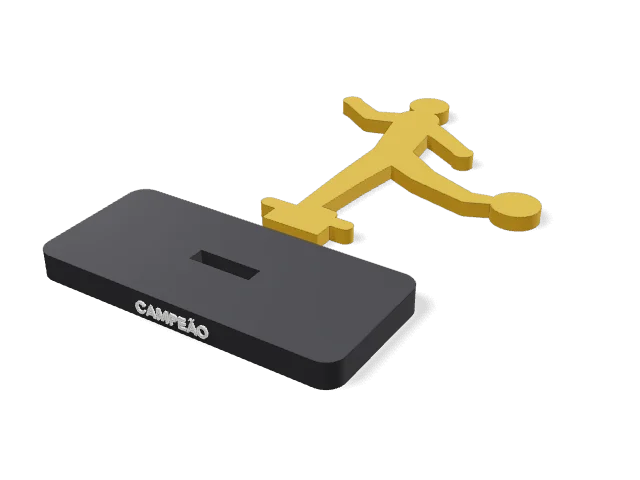
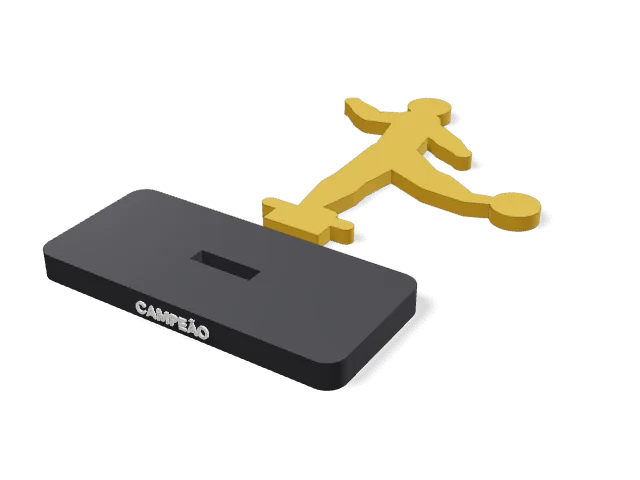
feat: silhuetas com corpo de pictograma e prévia Mesa/Montada no troféu atleta e escultura (#223)

diff --git a/src/geometry/sports.ts b/src/geometry/sports.ts
@@ -21,21 +21,40 @@ type Person = {
   arms: [V, V][]; // cotovelo, mão
   legs: [V, V, V][]; // joelho, tornozelo, ponta do pé
   hand?: number; // raio da mão (luva maior no boxe)
+  front?: number; // meia largura dos ombros de frente (0 = de perfil)
 };
 
-const HEAD_R = 7.4;
+const HEAD_R = 8.2;
 
-/** Corpo humano a partir das juntas: tronco, pescoço, braços e pernas afunilados, cabeça e sapatos. */
+const lerp = (a: V, b: V, t: number): V => [a[0] + (b[0] - a[0]) * t, a[1] + (b[1] - a[1]) * t];
+/** Cadeia de círculos: uma cápsula afunilada entre cada par (dá o volume de músculo ao braço e à perna). */
+const chain = (...c: Dot[]): Limb[] => c.slice(1).map((d, i) => [c[i][0], c[i][1], c[i][2], d[0], d[1], d[2]]);
+
+/** Corpo humano estilo pictograma: tronco com ombros e quadris, braços e pernas com músculo, cabeça e sapatos. */
 function person(p: Person): Pick<SportShape, "limbs" | "dots"> {
-  const limbs: Limb[] = [[p.sh[0], p.sh[1], 8, p.hip[0], p.hip[1], 6.6], [p.head[0], p.head[1], 3.2, p.sh[0], p.sh[1], 4]];
+  const dx = p.hip[0] - p.sh[0];
+  const dy = p.hip[1] - p.sh[1];
+  const len = Math.hypot(dx, dy) || 1;
+  const n: V = [-dy / len, dx / len]; // perpendicular ao tronco
+  const sw = p.front ?? 0;
+  const shoulder = (i: number): V => [p.sh[0] + n[0] * sw * (i === 0 ? 1 : -1), p.sh[1] + n[1] * sw * (i === 0 ? 1 : -1)];
+  const hipAt = (i: number): V => [p.hip[0] + n[0] * sw * 0.55 * (i === 0 ? 1 : -1), p.hip[1] + n[1] * sw * 0.55 * (i === 0 ? 1 : -1)];
+  const limbs: Limb[] = [
+    ...chain([p.sh[0] + n[0] * sw, p.sh[1] + n[1] * sw, 6.4], [p.hip[0] + n[0] * sw * 0.55, p.hip[1] + n[1] * sw * 0.55, 6.8]),
+    ...chain([p.sh[0] - n[0] * sw, p.sh[1] - n[1] * sw, 6.4], [p.hip[0] - n[0] * sw * 0.55, p.hip[1] - n[1] * sw * 0.55, 6.8]),
+    ...chain([p.sh[0], p.sh[1], 8.4], [p.hip[0], p.hip[1], 7.2]),
+    ...chain([p.head[0], p.head[1], 3.8], [p.sh[0], p.sh[1], 5.4]),
+  ];
   const dots: Dot[] = [[p.head[0], p.head[1], HEAD_R]];
-  for (const [el, ha] of p.arms) {
-    limbs.push([p.sh[0], p.sh[1], 4.6, el[0], el[1], 3.7], [el[0], el[1], 3.7, ha[0], ha[1], 3.1]);
-    dots.push([ha[0], ha[1], p.hand ?? 3.6]);
-  }
-  for (const [kn, ft, toe] of p.legs) {
-    limbs.push([p.hip[0], p.hip[1], 6.4, kn[0], kn[1], 4.8], [kn[0], kn[1], 4.8, ft[0], ft[1], 3.4], [ft[0], ft[1], 3.4, toe[0], toe[1], 2.8]);
-  }
+  p.arms.forEach(([el, ha], i) => {
+    const s0 = shoulder(i % 2);
+    limbs.push(...chain([s0[0], s0[1], 5.8], [el[0], el[1], 4.4]), ...chain([el[0], el[1], 4.4], [...lerp(el, ha, 0.3), 4.6], [ha[0], ha[1], 2.6]));
+    dots.push([ha[0], ha[1], p.hand ?? 3.2]);
+  });
+  p.legs.forEach(([kn, ft, toe], i) => {
+    const h0 = hipAt(i % 2);
+    limbs.push(...chain([h0[0], h0[1], 8.6], [kn[0], kn[1], 6]), ...chain([kn[0], kn[1], 6], [...lerp(kn, ft, 0.3), 6.6], [ft[0], ft[1], 3.2]), ...chain([ft[0], ft[1], 3.2], [toe[0], toe[1], 2.8]));
+  });
   return { limbs, dots };
 }
 
@@ -54,15 +73,15 @@ export const SPORTS = {
     { dots: [[50, 40, 8]], floor: [-16, 12] },
   ),
   basquete: join(
-    person({ head: [2, 93], sh: [0, 80], hip: [-2, 52], arms: [[[14, 86], [14, 106]], [[6, 88], [10, 103]]], legs: [[[4, 30], [2, 3], [10, 3]], [[-6, 29], [-10, 3], [-2, 3]]] }),
-    { dots: [[13, 116, 9]], floor: [-18, 18] },
+    person({ front: 3, head: [4, 93], sh: [2, 80], hip: [-2, 52], arms: [[[16, 88], [14, 108]], [[-6, 90], [2, 108]]], legs: [[[10, 30], [4, 3], [13, 3]], [[-10, 28], [-14, 3], [-5, 3]]] }),
+    { dots: [[8, 116, 9]], floor: [-20, 20] },
   ),
   volei: join(
-    person({ head: [0, 93], sh: [0, 80], hip: [0, 52], arms: [[[-11, 90], [-6, 106]], [[11, 90], [6, 106]]], legs: [[[8, 30], [10, 3], [18, 3]], [[-8, 30], [-12, 3], [-4, 3]]] }),
-    { dots: [[0, 114, 9]], floor: [-20, 24] },
+    person({ front: 4, head: [0, 93], sh: [0, 80], hip: [0, 52], arms: [[[-17, 90], [-9, 108]], [[17, 90], [9, 108]]], legs: [[[8, 30], [10, 3], [18, 3]], [[-8, 30], [-12, 3], [-4, 3]]] }),
+    { dots: [[0, 115, 9]], floor: [-20, 24] },
   ),
   tenis: join(
-    person({ head: [-2, 93], sh: [-4, 80], hip: [-2, 52], arms: [[[8, 76], [24, 72]], [[-18, 78], [-30, 88]]], legs: [[[-14, 28], [-22, 3], [-14, 3]], [[12, 30], [20, 3], [28, 3]]] }),
+    person({ front: 3, head: [-2, 93], sh: [-4, 80], hip: [-2, 52], arms: [[[8, 76], [24, 72]], [[-18, 78], [-30, 88]]], legs: [[[-14, 28], [-22, 3], [-14, 3]], [[12, 30], [20, 3], [28, 3]]] }),
     { limbs: [[24, 72, 1.8, 38, 91, 1.6]], rings: [[44, 98, 11.5, 8]], floor: [-28, 34] },
   ),
   natacao: join(
@@ -95,32 +114,32 @@ export const SPORTS = {
     { floor: [-8, 14] },
   ),
   handebol: join(
-    person({ head: [2, 93], sh: [0, 80], hip: [-2, 52], arms: [[[-16, 92], [-10, 104]], [[14, 82], [30, 86]]], legs: [[[12, 32], [16, 3], [24, 3]], [[-14, 30], [-24, 3], [-16, 3]]] }),
+    person({ front: 3, head: [2, 93], sh: [0, 80], hip: [-2, 52], arms: [[[-16, 92], [-10, 104]], [[14, 82], [30, 86]]], legs: [[[12, 32], [16, 3], [24, 3]], [[-14, 30], [-24, 3], [-16, 3]]] }),
     { dots: [[-10, 114, 7.5]], floor: [-26, 26] },
   ),
   beisebol: join(
-    person({ head: [-2, 93], sh: [-2, 80], hip: [0, 52], arms: [[[-14, 84], [-14, 97]], [[-4, 88], [-10, 98]]], legs: [[[-12, 28], [-16, 3], [-8, 3]], [[12, 28], [18, 3], [26, 3]]] }),
+    person({ front: 2, head: [-2, 93], sh: [-2, 80], hip: [0, 52], arms: [[[-14, 84], [-14, 97]], [[-4, 88], [-10, 98]]], legs: [[[-12, 28], [-16, 3], [-8, 3]], [[12, 28], [18, 3], [26, 3]]] }),
     { limbs: [[-12, 97, 1.8, -34, 128, 3.6]], floor: [-18, 28] },
   ),
   boxe: join(
-    person({ head: [4, 92], sh: [0, 80], hip: [-4, 52], arms: [[[18, 78], [34, 86]], [[8, 70], [16, 85]]], legs: [[[10, 30], [14, 3], [22, 3]], [[-10, 30], [-18, 3], [-10, 3]]], hand: 6.8 }),
+    person({ front: 2, head: [4, 92], sh: [0, 80], hip: [-4, 52], arms: [[[18, 78], [34, 86]], [[8, 70], [16, 85]]], legs: [[[10, 30], [14, 3], [22, 3]], [[-10, 30], [-18, 3], [-10, 3]]], hand: 6.8 }),
     { floor: [-20, 24] },
   ),
   skate: join(
-    person({ head: [0, 91], sh: [-2, 78], hip: [0, 52], arms: [[[-22, 70], [-38, 66]], [[18, 72], [34, 80]]], legs: [[[-10, 32], [-14, 13], [-8, 13]], [[10, 32], [14, 13], [20, 13]]] }),
+    person({ front: 4, head: [0, 91], sh: [-2, 78], hip: [0, 52], arms: [[[-22, 70], [-38, 66]], [[18, 72], [34, 80]]], legs: [[[-10, 32], [-14, 13], [-8, 13]], [[10, 32], [14, 13], [20, 13]]] }),
     { limbs: [[-28, 10, 1.9, 28, 10, 1.9]], dots: [[-20, 4.5, 4.5], [20, 4.5, 4.5]], floor: [-26, 26] },
   ),
   halterofilismo: join(
-    person({ head: [0, 92], sh: [0, 80], hip: [0, 52], arms: [[[-14, 100], [-20, 116]], [[14, 100], [20, 116]]], legs: [[[-12, 28], [-18, 3], [-10, 3]], [[12, 28], [18, 3], [26, 3]]] }),
-    { limbs: [[-40, 116, 1.8, 40, 116, 1.8]], dots: [[-31, 116, 11], [31, 116, 11], [-25, 116, 8.5], [25, 116, 8.5]], floor: [-20, 28] },
+    person({ front: 5, head: [0, 92], sh: [0, 80], hip: [0, 52], arms: [[[-24, 98], [-27, 116]], [[24, 98], [27, 116]]], legs: [[[-12, 28], [-18, 3], [-10, 3]], [[12, 28], [18, 3], [26, 3]]] }),
+    { limbs: [[-42, 116, 1.8, 42, 116, 1.8]], dots: [[-37, 116, 11], [37, 116, 11], [-31, 116, 8.5], [31, 116, 8.5]], floor: [-20, 28] },
   ),
   taekwondo: join(
     person({ head: [-14, 91], sh: [-10, 78], hip: [0, 52], arms: [[[-22, 70], [-30, 82]], [[-6, 66], [10, 76]]], legs: [[[0, 28], [0, 3], [8, 3]], [[18, 58], [40, 66], [46, 67]]] }),
     { floor: [-6, 14] },
   ),
   golfe: join(
-    person({ head: [0, 92], sh: [-2, 80], hip: [2, 52], arms: [[[14, 86], [8, 100]], [[8, 84], [8, 99]]], legs: [[[2, 28], [0, 3], [8, 3]], [[-10, 28], [-10, 3], [-3, 3]]] }),
-    { limbs: [[8, 100, 1.3, -34, 74, 1.3]], dots: [[-36, 72, 3.6]], floor: [-14, 14] },
+    person({ front: 3, head: [-2, 92], sh: [-2, 79], hip: [2, 52], arms: [[[12, 84], [4, 99]], [[-12, 86], [2, 98]]], legs: [[[6, 28], [6, 3], [14, 3]], [[-6, 28], [-10, 4], [-3, 3]]] }),
+    { limbs: [[3, 99, 1.4, -36, 70, 1.4]], dots: [[-38, 68, 3.8]], floor: [-14, 18] },
   ),
 } satisfies Record<string, SportShape>;
 

diff --git a/src/geometry/models/trophySculpture.ts b/src/geometry/models/trophySculpture.ts
@@ -5,11 +5,13 @@ import type { Model } from "../types";
 import { moveModel, roundedRect, slab, solidMesh, type ModelCtx, type ModelOutput } from "./common";
 import { trophyBase } from "./trophy";
 
+export type SculptureLayout = "print" | "assembled";
 export type SculptureForm = "atleta" | "fluxo" | "iris" | "nexo";
 export const SCULPTURE_FORMS: SculptureForm[] = ["atleta", "fluxo", "iris", "nexo"];
 
 export type SculptureParams = {
   form: SculptureForm;
+  layout: SculptureLayout; // peças na mesa (o que imprime) ou o troféu montado em pé na base (só para ver)
   sport: SportId;
   height: number; // altura do atleta (maior dimensão) ou da coluna torcida
   girth: number; // largura da coluna torcida
@@ -24,6 +26,7 @@ export type SculptureParams = {
 
 export const DEFAULT_SCULPTURE: SculptureParams = {
   form: "atleta",
+  layout: "print",
   sport: "futebol",
   height: 120,
   girth: 44,
@@ -45,6 +48,7 @@ const STAR_POINTS = 5;
 const STAR_INNER = 0.55;
 const SOFTEN = 1.6; // cantos da estrela arredondados
 const GAP_TO_BASE = 14;
+const BASE_H = 10; // altura da base compacta
 const BASE_D = 55; // base compacta da trophyBase: 120 × 55
 const BASE_W = 120;
 
@@ -76,7 +80,10 @@ function athlete(ctx: ModelCtx, p: SculptureParams): { model: Model; tabW: numbe
     const floorW = floor.bounds().max[0] - floor.bounds().min[0];
     const tabW = Math.min(MAX_TAB_W, floorW * 0.7);
     const tab = k(k(M.CrossSection.square([tabW, TAB_H + OVERLAP], true)).translate([0, bottom - (TAB_H - OVERLAP) / 2]));
-    return { tabW, width, model: { name: "Atleta", parts: [{ name: "Atleta", color: p.bodyColor, mesh: slab(k(sil.add(tab)), p.thickness) }] } };
+    const flat = k(sil.add(tab));
+    // montado: em pé (a espessura vira profundidade), com a lingueta dentro do rasgo no topo da base
+    const mesh = p.layout === "assembled" ? solidMesh(k(k(k(flat.extrude(p.thickness)).rotate([90, 0, 0])).translate([0, p.thickness / 2, BASE_H - bottom]))) : slab(flat, p.thickness);
+    return { tabW, width, model: { name: "Atleta", parts: [{ name: "Atleta", color: p.bodyColor, mesh }] } };
   });
 }
 
@@ -90,7 +97,10 @@ function column(ctx: ModelCtx, p: SculptureParams): { model: Model; tabW: number
     const tabW = Math.min(MAX_TAB_W, p.girth * 0.45);
     // a lingueta segue a ponta torcida da coluna: o rasgo da base é reto e a peça gira para encaixar
     const tab = k(k(k(M.Manifold.cube([tabW, TAB_T, TAB_H + OVERLAP], true)).translate([0, 0, p.height + (TAB_H - OVERLAP) / 2])).rotate([0, 0, p.twist]));
-    return { tabW, width: p.girth, model: { name: "Coluna", parts: [{ name: "Coluna", color: p.bodyColor, mesh: solidMesh(k(body.add(tab))) }] } };
+    const whole = k(body.add(tab));
+    // montada: de pé com a lingueta para baixo; o giro desfaz a torção da ponta para a lingueta bater com o rasgo reto
+    const mesh = solidMesh(p.layout === "assembled" ? k(k(k(whole.rotate([180, 0, 0])).translate([0, 0, p.height + BASE_H])).rotate([0, 0, p.twist])) : whole);
+    return { tabW, width: p.girth, model: { name: "Coluna", parts: [{ name: "Coluna", color: p.bodyColor, mesh }] } };
   });
 }
 
@@ -101,6 +111,10 @@ export function buildSculpture(ctx: ModelCtx, p: SculptureParams): ModelOutput {
   const thickness = p.form === "atleta" ? p.thickness : TAB_T;
   const baseW = Math.max(piece.width * 0.9, piece.tabW + 20);
   const base = trophyBase(ctx, { width: baseW, tabW: piece.tabW, thickness, relief: 1, lines: [p.baseText, p.baseText2], compact: true, baseColor: p.baseColor, textColor: p.textColor }, (m) => void warnings.push(m));
+  if (p.layout === "assembled") {
+    warnings.push("Montado: é só para ver. Para imprimir, volte para \"Mesa\".");
+    return { models: [piece.model, base], warnings };
+  }
   // o atleta (peça plana) leva a base embaixo, como o troféu adaptável; a coluna leva a base ao lado
   const placed = p.form === "atleta" ? moveModel(base, 0, -(TAB_H + GAP_TO_BASE + BASE_D / 2)) : moveModel(base, piece.width / 2 + BASE_W / 2 + GAP_TO_BASE, 0);
   return { models: [piece.model, placed], warnings };

diff --git a/tests/e2e/trofeu-escultura.e2e.ts b/tests/e2e/trofeu-escultura.e2e.ts
@@ -9,7 +9,7 @@ const PRINTS = process.env.TROFEU_PRINTS;
 async function shot(page: Page, name: string) {
   if (!PRINTS) return;
   mkdirSync(PRINTS, { recursive: true });
-  await page.screenshot({ path: `${PRINTS}/${name}.png` });
+  await page.screenshot({ path: `${PRINTS}/${name}${process.env.TROFEU_SUFFIX ?? ""}.png` });
 }
 async function open(page: Page, label: string) {
   await go(page, "Modelos prontos");
@@ -50,6 +50,38 @@ test("troféu escultura: fita, estrela e cruz torcidas", async ({ page }) => {
   await page.getByRole("button", { name: "Cruz bronze" }).click();
   await idle(page);
   await shot(page, "06-escultura-cruz");
+});
+
+const assembled = (page: Page) => page.getByRole("button", { name: "Montado (só para ver)" }).click().then(() => idle(page));
+const onTable = (page: Page) => page.getByRole("button", { name: "Mesa (o que imprime)" }).click().then(() => idle(page));
+
+test("troféu atleta: Mesa mostra o que imprime e Montado mostra o troféu em pé na base", async ({ page }) => {
+  await open(page, "Troféu atleta");
+  const size = async () => (await hud(page).textContent()) ?? "";
+  const flat = await size();
+  await assembled(page);
+  await expect(page.getByText(/Montado: é só para ver/)).toBeVisible();
+  expect(await size()).not.toBe(flat);
+  await shot(page, "07-atleta-futebol-montado");
+  for (const [sport, file] of [["Basquete", "08-atleta-basquete-montado"], ["Vôlei", "09-atleta-volei-montado"], ["Natação", "10-atleta-natacao-montado"]] as const) {
+    await page.getByLabel("Esporte", { exact: true }).selectOption({ label: sport }); // a variação pronta zera a prévia: troca pelo campo
+    await idle(page);
+    await shot(page, file);
+  }
+  await onTable(page);
+  await expect(page.getByText(/Montado: é só para ver/)).toHaveCount(0);
+});
+
+test("troféu escultura montada: fita, estrela e cruz em pé na base", async ({ page }) => {
+  await open(page, "Troféu escultura");
+  await assembled(page);
+  await shot(page, "11-escultura-fita-montada");
+  await page.getByRole("button", { name: "Estrela", exact: true }).click();
+  await idle(page);
+  await shot(page, "12-escultura-estrela-montada");
+  await page.getByRole("button", { name: "Cruz", exact: true }).click();
+  await idle(page);
+  await shot(page, "13-escultura-cruz-montada");
 });
 
 test("troféu: a família mostra as variações Atleta e Escultura", async ({ page }) => {

diff --git a/src/tools/models/catalog/party.ts b/src/tools/models/catalog/party.ts
@@ -108,6 +108,7 @@ export const PARTY_MODELS: ModelDef[] = [
       { title: "Esporte", fields: [choice("sport", "Esporte", SPORT_IDS.map((id) => [id, SPORT_LABELS[id]] as const))] },
       { title: "Textos da base", fields: [text("baseText", "Linha de cima", 24), text("baseText2", "Linha de baixo (opcional)", 24)] },
       { title: "Tamanho e cores", fields: [num("height", "Tamanho do atleta", 60, 170, { step: 1 }), num("thickness", "Espessura", 4, 10), color("bodyColor", "Atleta"), color("baseColor", "Base"), color("textColor", "Texto da base")] },
+      { title: "Prévia", fields: [choice("layout", "Prévia", [["print", "Mesa (o que imprime)"], ["assembled", "Montado (só para ver)"]])] },
     ],
     build: (ctx, p) => buildSculpture(ctx, as({ ...p, form: "atleta" })),
   },
@@ -123,6 +124,7 @@ export const PARTY_MODELS: ModelDef[] = [
       { title: "Forma", fields: [choice("form", "Forma", [["fluxo", "Fita"], ["iris", "Estrela"], ["nexo", "Cruz"]]), num("twist", "Torção", 90, 540, { step: 15, unit: "°" })] },
       { title: "Textos da base", fields: [text("baseText", "Linha de cima", 24), text("baseText2", "Linha de baixo (opcional)", 24)] },
       { title: "Tamanho e cores", fields: [num("height", "Altura", 60, 220, { step: 1 }), num("girth", "Largura", 30, 70, { step: 1 }), color("bodyColor", "Escultura"), color("baseColor", "Base"), color("textColor", "Texto da base")] },
+      { title: "Prévia", fields: [choice("layout", "Prévia", [["print", "Mesa (o que imprime)"], ["assembled", "Montado (só para ver)"]])] },
     ],
     build: (ctx, p) => buildSculpture(ctx, as(p)),
   },

diff --git a/src/geometry/models/trophySculpture.test.ts b/src/geometry/models/trophySculpture.test.ts
@@ -77,4 +77,26 @@ describe("troféu escultura (#223)", () => {
     const out = build({ baseText: "", baseText2: "" });
     expect(out.models[1].parts.map((x) => x.name)).toEqual(["Base"]);
   });
+
+  describe("Montado: em pé na base, com a lingueta dentro do rasgo", () => {
+    test.each([["atleta"], ["fluxo"], ["iris"], ["nexo"]] as const)("%s: não bate na base, desce 8 mm no rasgo e fica em pé", (form) => {
+      const out = build({ form, layout: "assembled", height: 120, twist: 200 });
+      const [piece, base] = out.models;
+      const body = solid(piece.parts[0].mesh);
+      const slab = solid(base.parts[0].mesh);
+      expect(body.status()).toBe("NoError");
+      expect(body.intersect(slab).volume()).toBeCloseTo(0, 3); // a lingueta cabe no rasgo (folga)
+      const b = body.boundingBox();
+      expect(b.min[2]).toBeCloseTo(2, 3); // 10 de base − 8 de lingueta
+      expect(b.max[2]).toBeGreaterThan(110);
+      expect(out.warnings?.some((w) => w.includes("Montado"))).toBe(true);
+      body.delete();
+      slab.delete();
+    });
+
+    test("a mesa continua sendo o padrão e não avisa nada de montagem", () => {
+      expect(DEFAULT_SCULPTURE.layout).toBe("print");
+      expect(build({}).warnings?.some((w) => w.includes("Montado"))).toBeFalsy();
+    });
+  });
 });

diff --git a/src/geometry/sports.test.ts b/src/geometry/sports.test.ts
@@ -20,6 +20,14 @@ describe("silhuetas de esportes (#223)", () => {
     cs.delete();
   });
 
+  test.each(SPORT_IDS)("%s: nenhum traço mais fino que 1,6 mm no tamanho de 110 mm (imprime com bico de 0,4)", (id) => {
+    const cs = sportSilhouette(M, id, 110);
+    const opened = cs.offset(-0.8, "Miter").offset(0.8, "Miter"); // o que sobra depois de tirar tudo mais fino que 1,6 mm
+    expect(opened.area() / cs.area()).toBeGreaterThan(0.985);
+    opened.delete();
+    cs.delete();
+  });
+
   test("todo esporte tem nome e são 15", () => {
     expect(SPORT_IDS).toHaveLength(15);
     for (const id of SPORT_IDS) expect(SPORT_LABELS[id].length).toBeGreaterThan(2);

diff --git a/CHANGELOG.md b/CHANGELOG.md
@@ -4,7 +4,7 @@ Cada versão aparece para a usuária na tela "O que há de novo" depois da atual
 Formato: `## <versão> — <data>` e itens `- …` em linguagem simples.
 
 ## Próxima versão (ainda não lançada)
-- **Troféu atleta e troféu escultura (#223)**: duas variações novas na família Troféu. O **atleta** é a silhueta de um de 15 esportes (futebol, basquete, vôlei, tênis, natação, corrida, ciclismo, ginástica, handebol, beisebol, boxe, skate, halterofilismo, taekwondo e golfe) em pé numa base com o nome do campeão em até duas linhas; a peça imprime deitada, sem suporte, e a lingueta encaixa no rasgo da base. A **escultura** é uma coluna torcida (fita, estrela de cinco pontas ou cruz) com torção de 90° a 540°, altura e largura à escolha; imprime de cabeça para baixo (as duas pontas são iguais) e também encaixa na base. Variações prontas por esporte (inclusive o prata) e por forma (dourada, prateada, bronze), cores separadas por parte no 3MF e miniaturas novas
+- **Troféu atleta e troféu escultura (#223)**: duas variações novas na família Troféu. O **atleta** é a silhueta de um de 15 esportes (futebol, basquete, vôlei, tênis, natação, corrida, ciclismo, ginástica, handebol, beisebol, boxe, skate, halterofilismo, taekwondo e golfe) em pé numa base com o nome do campeão em até duas linhas; a peça imprime deitada, sem suporte, e a lingueta encaixa no rasgo da base. A **escultura** é uma coluna torcida (fita, estrela de cinco pontas ou cruz) com torção de 90° a 540°, altura e largura à escolha; imprime de cabeça para baixo (as duas pontas são iguais) e também encaixa na base. Variações prontas por esporte (inclusive o prata) e por forma (dourada, prateada, bronze), cores separadas por parte no 3MF e miniaturas novas. As silhuetas têm corpo e volume (tronco com ombros, coxa e panturrilha afuniladas, poses reconhecíveis por esporte, nenhum traço abaixo de 1,6 mm) e a prévia alterna entre **Mesa** (o que imprime) e **Montado** (o troféu em pé dentro da base, só para ver)
 
 ## 0.12.6 — 2026-10-16
 - **Calculadora: preços de marketplace com as taxas de 2026 e quatro contas que erravam (#242)**: o canal de venda agora aceita **taxas por faixa de preço** (comissão e taxa fixa que mudam conforme o preço), além do frete obrigatório acima de um valor. A **Shopee** vem de fábrica com a regra de 2026 (20% + R$ 4,50 até R$ 79,99; 14% + R$ 16, R$ 20 ou R$ 26 acima, sem teto) e o **Mercado Livre** clássico e premium com o custo por unidade por faixa abaixo de R$ 79 e o frete por sua conta a partir dele (o R$ 20 é só um exemplo: use o de uma etiqueta real). Cada canal mostra a data em que a regra foi conferida e o que confirmar na central do vendedor, e tudo é editável em Preferências → Canais de venda; quem nunca mexeu nas taxas de fábrica antigas passa para as novas sozinho. Com custo de R$ 40 e margem de 30%, a Shopee sugeria R$ 88,00 (e deixava só 22%); agora sugere R$ 107,15. Também: **Salvar como produto** leva a purga digitada e o kWh medido (antes o produto saía com R$ 25,26 onde a calculadora mostrava R$ 55,58); **Levar para a Calculadora** troca o "Peças na mesa" (antes o custo saía dividido pelas peças da conta anterior); e cor sem filamento cadastrado entra com o preço médio do seu estoque (ou R$ 100/kg), marcada "preço estimado: confira", em vez de R$ 0,00

diff --git a/docs/QA-modelos.md b/docs/QA-modelos.md
@@ -85,9 +85,9 @@ impressoras de mesa maior); sem o aviso do app, é **falha**.
 | Troféu (trophy) | máximo | ✅ ok | Bambu ✓ · Orca ✓ · Projeto Bambu ✓ | 220 | 122,9 | 1 | – | – |
 | Troféu (trophy) | mínimo | ⚠ aviso | Bambu ✓ · Orca ✓ · Projeto Bambu ✓ | 48 | 18,1 | 1 | – | "Placa": parede/traço < 0,4 mm em Z 2,6 mm; app: "1º LUGAR" ficou com 2,2 mm de altura: os traços ficam com menos de 0,4 mm e somem na impressão. Aumente o texto ou a peça, encurte a linha ou use uma fonte mais grossa. |
 | Troféu (trophy) | padrão | ✅ ok | Bambu ✓ · Orca ✓ · Projeto Bambu ✓ | 84 | 37,5 | 1 | – | – |
-| Troféu atleta (trophyAthlete) | máximo | ✅ ok | Bambu ✓ · Orca ✓ · Projeto Bambu ✓ | 213 | 93,6 | 1 | – | – |
-| Troféu atleta (trophyAthlete) | mínimo | ✅ ok | Bambu ✓ · Orca ✓ · Projeto Bambu ✓ | 123 | 52,1 | 1 | – | – |
-| Troféu atleta (trophyAthlete) | padrão | ✅ ok | Bambu ✓ · Orca ✓ · Projeto Bambu ✓ | 155 | 65,7 | 1 | – | – |
+| Troféu atleta (trophyAthlete) | máximo | ✅ ok | Bambu ✓ · Orca ✓ · Projeto Bambu ✓ | 216 | 96,1 | 1 | – | – |
+| Troféu atleta (trophyAthlete) | mínimo | ✅ ok | Bambu ✓ · Orca ✓ · Projeto Bambu ✓ | 124 | 52,3 | 1 | – | – |
+| Troféu atleta (trophyAthlete) | padrão | ✅ ok | Bambu ✓ · Orca ✓ · Projeto Bambu ✓ | 156 | 66,7 | 1 | – | – |
 | Troféu elegante (trophyElegant) | máximo | ✅ ok | Bambu ✓ · Orca ✓ · Projeto Bambu ✓ | 273 | 140,6 | 1 | – | app: "1º LUGAR" ficou com 3,2 mm de altura: os traços ficam com menos de 0,4 mm e somem na impressão. Aumente o texto ou a peça, encurte a linha ou use uma fonte mais grossa. |
 | Troféu elegante (trophyElegant) | mínimo | ✅ ok | Bambu ✓ · Orca ✓ · Projeto Bambu ✓ | 88 | 29,1 | 1 | – | app: "CAMPEONATO 2026" ficou com 1,9 mm de altura: os traços ficam com menos de 0,4 mm e somem na impressão. Aumente o texto ou a peça, encurte a linha ou use uma fonte mais grossa.; app: "1º LUGAR" ficou com 3,2 mm de altura: os traços ficam com menos de 0,4 mm e somem na impressão. Aumente o texto ou a peça, encurte a linha ou use uma fonte mais grossa. |
 | Troféu elegante (trophyElegant) | padrão | ✅ ok | Bambu ✓ · Orca ✓ · Projeto Bambu ✓ | 134 | 50,0 | 1 | – | app: "1º LUGAR" ficou com 3,2 mm de altura: os traços ficam com menos de 0,4 mm e somem na impressão. Aumente o texto ou a peça, encurte a linha ou use uma fonte mais grossa. |
